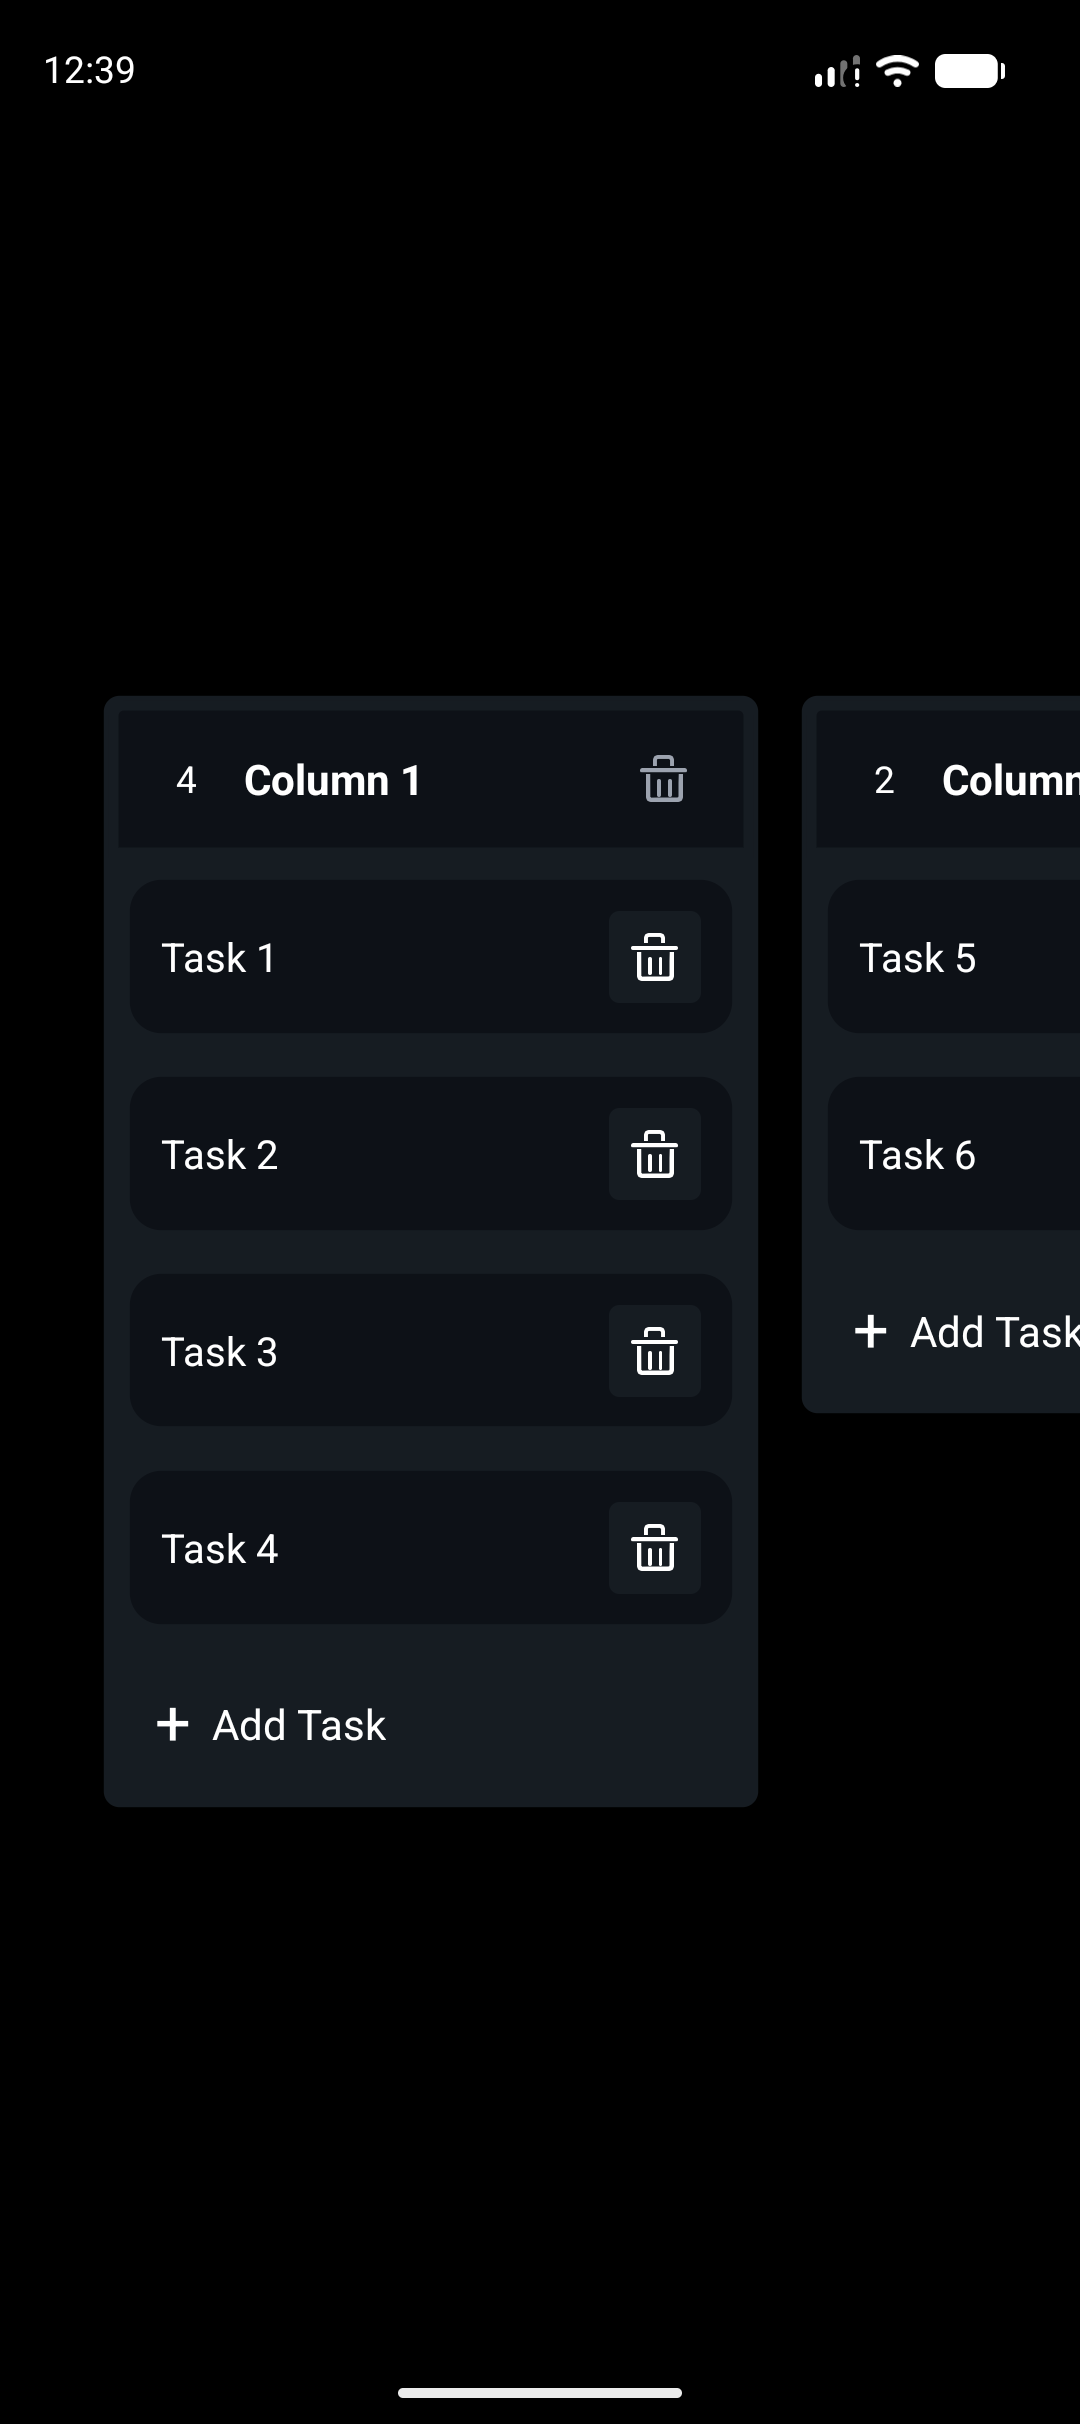
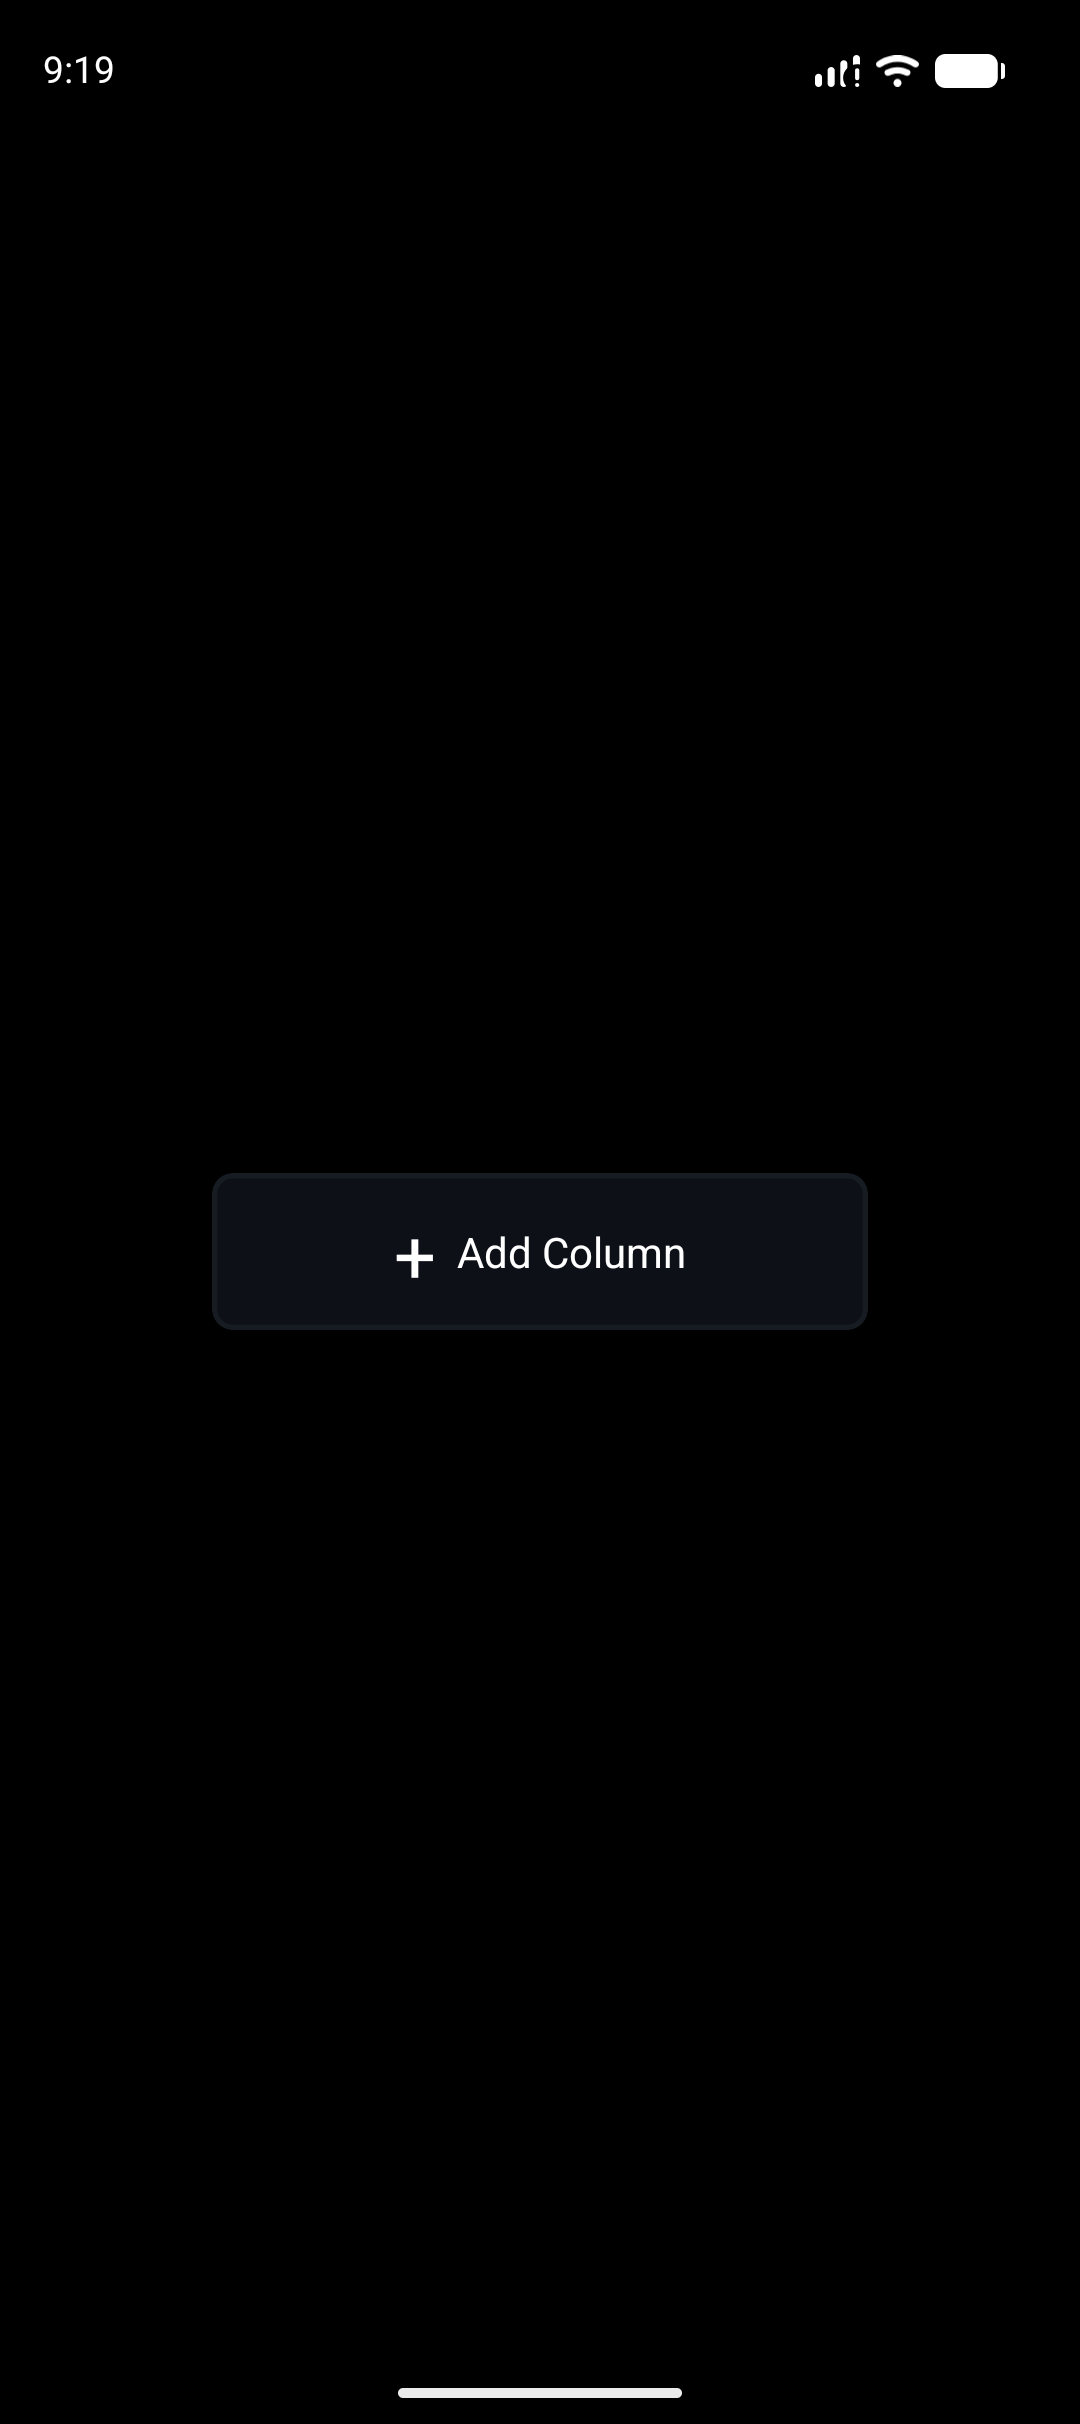
kanban img

diff --git a/src/pages/projects/ProjectCard.tsx b/src/pages/projects/ProjectCard.tsx
@@ -47,7 +47,19 @@ export const ProjectCard: React.FC<CardProps> = ({
       <Typography variant={smDown ? "h6" : mdDown ? "h5" : "h5"} p={1}>
         {title ? `${title}` : "..."}
       </Typography>
-      {image && <CardMedia component="img" image={image} title={title} />}
+      {image && (
+        <CardMedia
+          component="img"
+          image={image}
+          title={title}
+          sx={{
+            aspectRatio: "1350 / 650",
+            objectFit: "cover",
+            objectPosition: "center",
+            width: "100%",
+          }}
+        />
+      )}
       {!image && !isApi && (
         <Box position="relative">
           <CardMedia